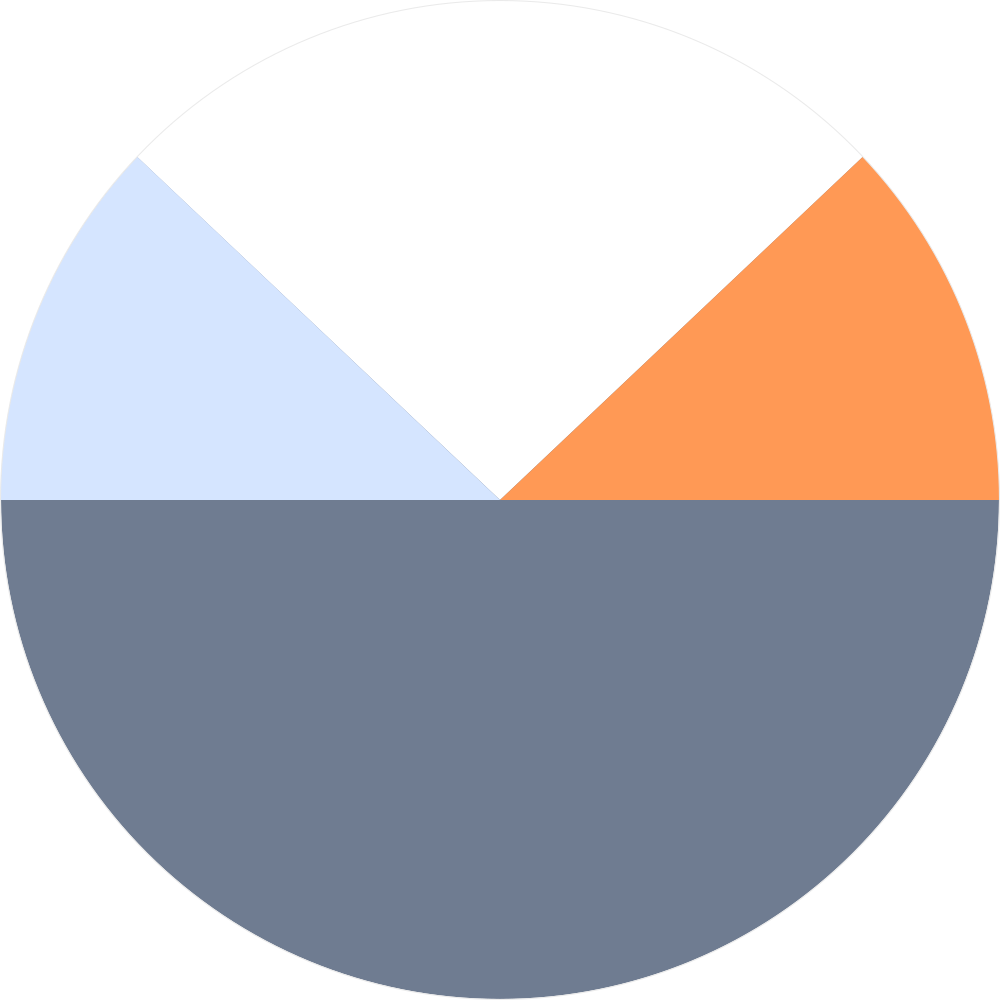
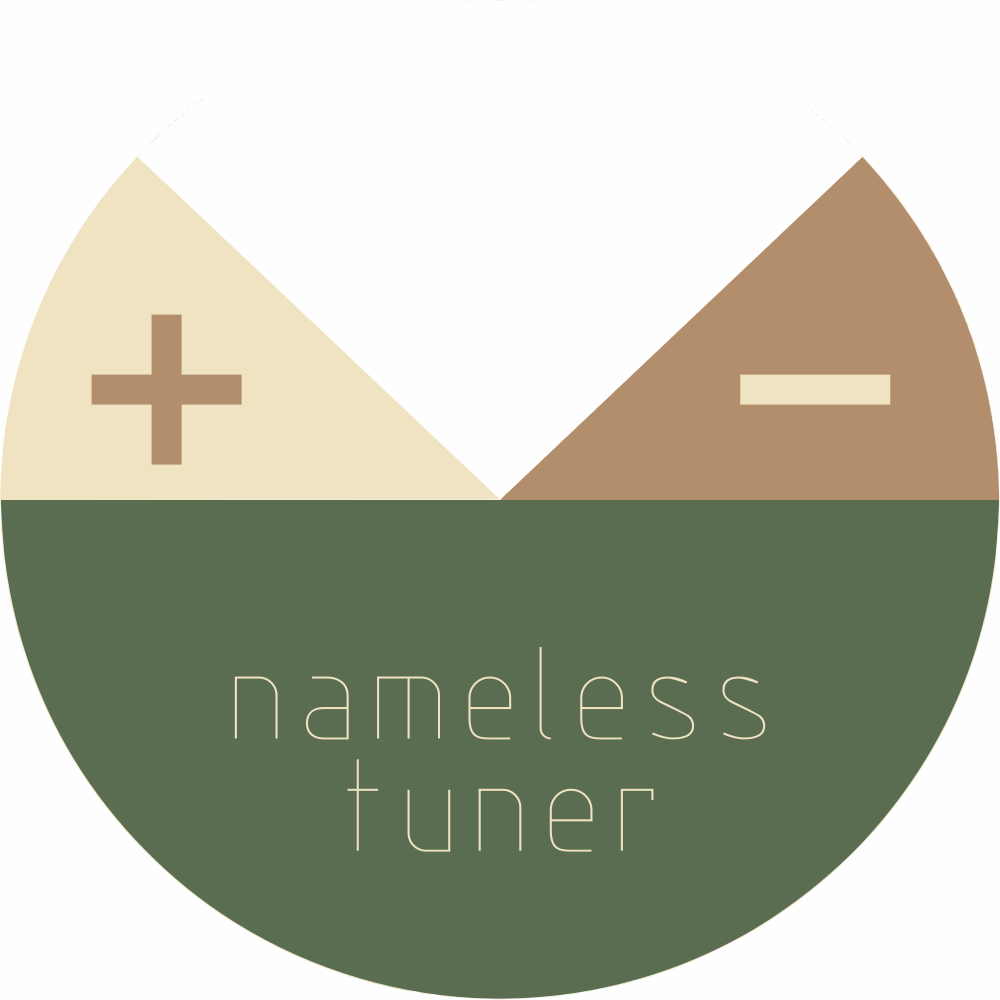
Muitas implementações
- pix para pagamento
- alterações design
- correções gerais

diff --git a/index.html b/index.html
@@ -4,16 +4,21 @@
     <meta charset="UTF-8">
     <meta name="viewport" content="width=device-width, initial-scale=1.0">
     <title>Afinador Cromático</title>
+    <link rel="manifest" href="manifest.json">
+    <meta name="theme-color" content="#F2F2DB">
     <style>
         body {
             font-family: Arial, sans-serif;
             display: flex;
             flex-direction: column;
             align-items: center;
-            justify-content: center;
-            height: 100vh;
+            justify-content: space-between;
+            min-height: 100vh;
             margin: 0;
-            background-color: #b8cad4;
+            padding: 20px;
+            background-color: #F2F2DB;
+            color: #5A6D50;
+            box-sizing: border-box;
         }
         #tuner {
             width: 300px;
@@ -42,7 +47,7 @@
         }
         #frequency {
             font-size: 24px;
-            color: #666;
+            color: #5A6D50;
             z-index: 2;
         }
         #needle {
@@ -59,7 +64,38 @@
         #credits {
             margin-top: 20px;
             font-size: 14px;
-            color: #333;
+            color: #5A6D50;
+        }
+        #start {
+            margin-top: 20px;
+            padding: 10px 20px;
+            font-size: 16px;
+            background-color: #5A6D50;
+            color: #F2F2DB;
+            border: none;
+            border-radius: 20px;
+            cursor: pointer;
+            transition: background-color 0.3s;
+        }
+        #start:hover {
+            background-color: #4A5D40;
+        }
+        #start:disabled {
+            background-color: #9AA990;
+            cursor: not-allowed;
+        }
+        footer {
+            margin-top: 20px;
+            text-align: center;
+            font-size: 14px;
+            color: #5A6D50;
+        }
+        footer p {
+            margin: 5px 0;
+        }
+        footer a {
+            color: #5A6D50;
+            text-decoration: underline;
         }
     </style>
 </head>
@@ -70,8 +106,13 @@
         <div id="frequency">- Hz</div>
         <div id="needle"></div>
     </div>
-    <button id="start">Iniciar Afinador</button>
+    <button id="start">Start</button>
     <div id="credits">By NamelessReaper</div>
+    
+    <footer>
+        <p>Este app é livre de ads. Se ele te foi útil, você pode nos agradecer doando qualquer quantia em PIX para <a href="#" id="pix-key">nmlssrpr@proton.me</a></p>
+        <p>Instale este app clicando em menu > Adicionar à tela inicial e escolha a opção "Instalar".</p>
+    </footer>
 
     <script>
         const audioContext = new (window.AudioContext || window.webkitAudioContext)();
@@ -81,6 +122,7 @@
         const needleElement = document.getElementById('needle');
         const tunerElement = document.getElementById('tuner');
         const startButton = document.getElementById('start');
+        const pixKeyElement = document.getElementById('pix-key');
 
         const notes = ['E2', 'A2', 'D3', 'G3', 'B3', 'E4'];
         const frequencies = [82.41, 110.00, 146.83, 196.00, 246.94, 329.63];
@@ -121,75 +163,15 @@
         }
 
         function autoCorrelate(buffer, sampleRate) {
-            let sum = 0;
-            for (let i = 0; i < buffer.length; i++) {
-                sum += Math.abs(buffer[i]);
-            }
-            const threshold = 0.2;
-            if (sum <= threshold) return -1;
-
-            let r1 = 0, r2 = buffer.length - 1;
-            for (let i = 0; i < buffer.length / 2; i++) {
-                if (Math.abs(buffer[i]) > threshold) {
-                    r1 = i;
-                    break;
-                }
-            }
-            for (let i = 1; i < buffer.length / 2; i++) {
-                if (Math.abs(buffer[buffer.length - i]) > threshold) {
-                    r2 = buffer.length - i;
-                    break;
-                }
-            }
-
-            const bufferSlice = buffer.slice(r1, r2);
-            const c = new Array(bufferSlice.length).fill(0);
-            for (let i = 0; i < bufferSlice.length; i++) {
-                for (let j = 0; j < bufferSlice.length - i; j++) {
-                    c[i] += bufferSlice[j] * bufferSlice[j + i];
-                }
-            }
-
-            let d = 0;
-            while (c[d] > c[d + 1]) d++;
-            let maxval = -1, maxpos = -1;
-            for (let i = d; i < c.length; i++) {
-                if (c[i] > maxval) {
-                    maxval = c[i];
-                    maxpos = i;
-                }
-            }
-            let T0 = maxpos;
-
-            const interpolation = (c[T0 - 1] - c[T0 + 1]) / (2 * (2 * c[T0] - c[T0 - 1] - c[T0 + 1]));
-            return sampleRate / (T0 + interpolation);
+            // ... (mantenha a função autoCorrelate inalterada)
         }
 
         function findClosestNote(frequency) {
-            let closestNote = notes[0];
-            let closestDiff = Math.abs(frequency - frequencies[0]);
-
-            for (let i = 1; i < notes.length; i++) {
-                const diff = Math.abs(frequency - frequencies[i]);
-                if (diff < closestDiff) {
-                    closestNote = notes[i];
-                    closestDiff = diff;
-                }
-            }
-
-            return closestNote;
+            // ... (mantenha a função findClosestNote inalterada)
         }
 
         function updateNeedle(detectedFrequency, targetFrequency) {
-            const cents = 1200 * Math.log2(detectedFrequency / targetFrequency);
-            const rotation = Math.max(Math.min(cents, 50), -50);
-            needleElement.style.transform = `rotate(${rotation}deg)`;
-
-            if (Math.abs(cents) < 5) { // Margem de 5 cents para considerar afinado
-                tunerElement.style.backgroundColor = '#b5f178';
-            } else {
-                tunerElement.style.backgroundColor = '#fff';
-            }
+            // ... (mantenha a função updateNeedle inalterada)
         }
 
         startButton.addEventListener('click', () => {
@@ -198,6 +180,26 @@
                 startButton.disabled = true;
             });
         });
+
+        pixKeyElement.addEventListener('click', (e) => {
+            e.preventDefault();
+            const pixKey = "00020126650014br.gov.bcb.pix0118nmlssrpr@proton.me0221qualquer valor ajuda!5204000053039865802BR5919Rafael Lopes Ferraz6008Brasilia62090505gqiu56304A51C";
+            navigator.clipboard.writeText(pixKey).then(() => {
+                alert('Chave PIX copiada para a área de transferência!');
+            }).catch(err => {
+                console.error('Erro ao copiar a chave PIX:', err);
+            });
+        });
+    </script>
+
+    <script>
+      if ('serviceWorker' in navigator) {
+        window.addEventListener('load', () => {
+          navigator.serviceWorker.register('/service-worker.js')
+            .then((reg) => console.log('Service worker registered.', reg))
+            .catch((err) => console.log('Service worker registration failed:', err));
+        });
+      }
     </script>
 </body>
 </html>

diff --git a/service-worker.js b/service-worker.js
@@ -1,0 +1,21 @@
+self.addEventListener('install', (event) => {
+  event.waitUntil(
+    caches.open('afinador-v1').then((cache) => {
+      return cache.addAll([
+        '/',
+        '/index.html',
+        '/gauge.png',
+        '/icon-192x192.png',
+        '/icon-512x512.png'
+      ]);
+    })
+  );
+});
+
+self.addEventListener('fetch', (event) => {
+  event.respondWith(
+    caches.match(event.request).then((response) => {
+      return response || fetch(event.request);
+    })
+  );
+});
